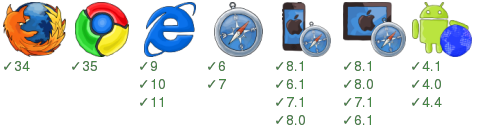
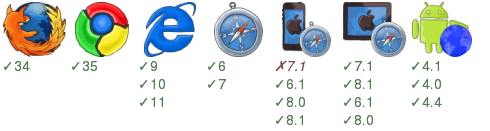
Auto commit smoke test results for 5f92ec469d7ec9b1aef472e077034793edaec004 [ci skip]

diff --git a/examples/00hello/badge.html b/examples/00hello/badge.html
@@ -28,16 +28,16 @@ div{vertical-align:top;overflow:hidden;display:inline-block;width:92px;padding:4
 <p>&#x2713;7</p>
 </div><div>
 <img src="/home/travis/build/zordius/fluxex/examples/00hello/node_modules/badge-render/browser-badge/static/iphone.png" />
-<p>&#x2713;8.1</p>
+<i>&#x2717;7.1</i>
 <p>&#x2713;6.1</p>
-<p>&#x2713;7.1</p>
 <p>&#x2713;8.0</p>
+<p>&#x2713;8.1</p>
 </div><div>
 <img src="/home/travis/build/zordius/fluxex/examples/00hello/node_modules/badge-render/browser-badge/static/ipad.png" />
-<p>&#x2713;8.1</p>
-<p>&#x2713;8.0</p>
 <p>&#x2713;7.1</p>
+<p>&#x2713;8.1</p>
 <p>&#x2713;6.1</p>
+<p>&#x2713;8.0</p>
 </div><div>
 <img src="/home/travis/build/zordius/fluxex/examples/00hello/node_modules/badge-render/browser-badge/static/android-browser.png" />
 <p>&#x2713;4.1</p>
